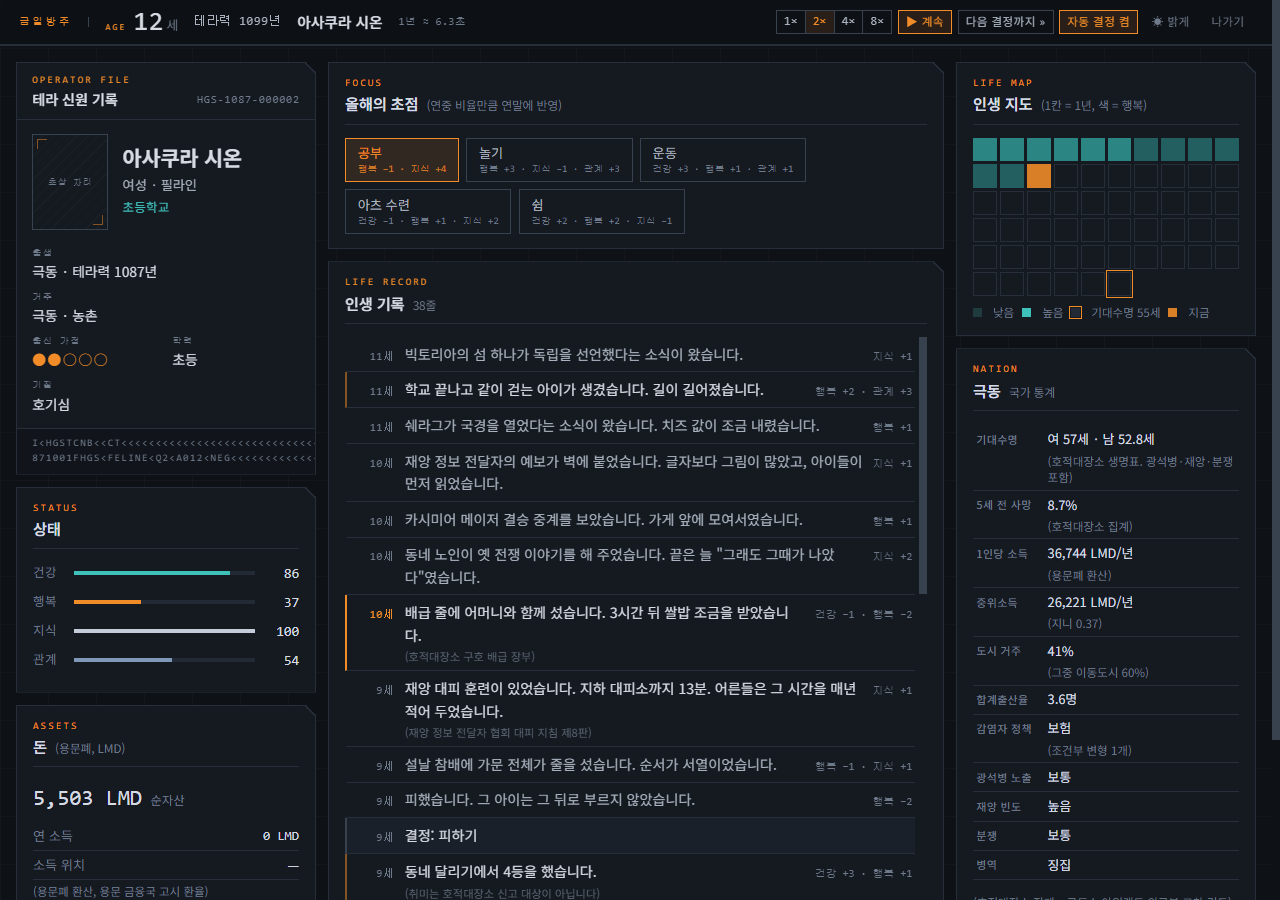
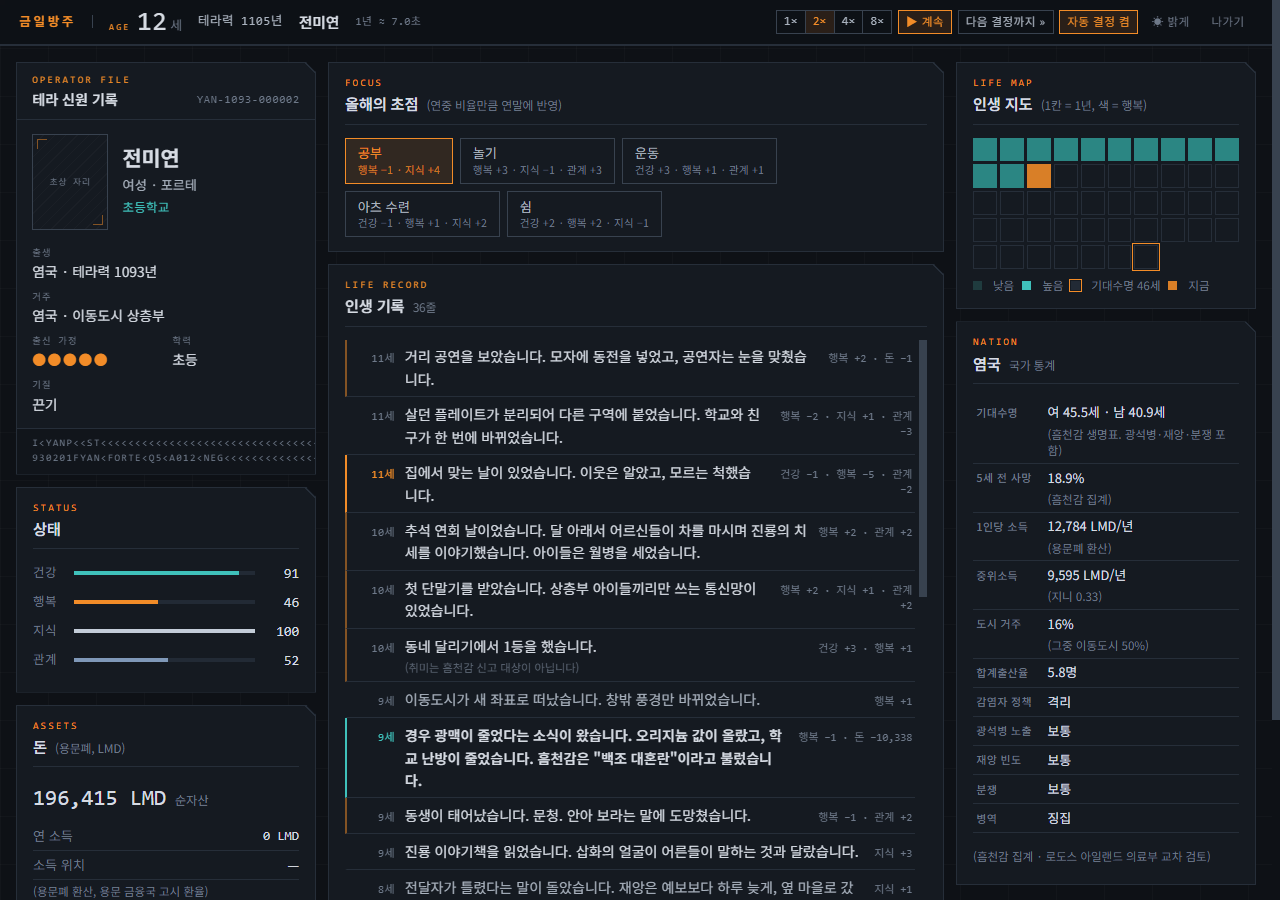
라이트 모드 상단 바 배색·한글 폰트 폴백 수정
- .life-bar 배경을 테마 변수(--bar-bg)로: 라이트에서 어두운 바가 남던 문제
- 모노 폰트 스택 뒤에 한글 산세리프 추가(굴림 폴백 방지)
- 상단 제목·선택지 설명·초점 칩 힌트는 산세리프로

diff --git a/src/ui/style.css b/src/ui/style.css
@@ -21,11 +21,13 @@
   --bad: #e2695d;
   --bad-soft: rgba(226, 105, 93, 0.1);
   --sans: "Pretendard", "Noto Sans KR", "Malgun Gothic", "맑은 고딕", "Apple SD Gothic Neo", sans-serif;
-  --mono: "Cascadia Mono", "JetBrains Mono", Consolas, "SF Mono", Menlo, "Roboto Mono", monospace;
+  /* 모노 스택 뒤에 한글 산세리프를 둔다: 한글 글리프가 굴림으로 떨어지는 것을 막는다 */
+  --mono: "Cascadia Mono", "JetBrains Mono", Consolas, "SF Mono", Menlo, "Roboto Mono", "Pretendard", "Noto Sans KR", "Malgun Gothic", "맑은 고딕", "Apple SD Gothic Neo", monospace;
   --cut: 10px;
   --fc: var(--line);
   --grid: rgba(255, 255, 255, 0.022);
   --hatch: rgba(255, 255, 255, 0.025);
+  --bar-bg: rgba(14, 17, 22, 0.94);
   color-scheme: dark;
 }
 /* 라이트 팔레트: 종이 느낌의 따뜻한 회백색. 강조색은 밝은 바탕에서 대비가 나오게 한 단계 어둡게. */
@@ -50,6 +52,7 @@
   --bad-soft: rgba(194, 70, 59, 0.1);
   --grid: rgba(0, 0, 0, 0.035);
   --hatch: rgba(0, 0, 0, 0.045);
+  --bar-bg: rgba(241, 239, 233, 0.94);
   color-scheme: light;
 }
 
@@ -209,11 +212,11 @@ code { font-family: var(--mono); font-size: 0.9em; background: var(--panel-3); p
 
 /* ── 인생 화면: 상단 상태 표시줄 ─────────────────────── */
 .life-bar {
-  position: sticky; top: 0; z-index: 20; background: rgba(14, 17, 22, 0.94); backdrop-filter: blur(6px); border-bottom: 1px solid var(--line);
+  position: sticky; top: 0; z-index: 20; background: var(--bar-bg); backdrop-filter: blur(6px); border-bottom: 1px solid var(--line);
   display: flex; flex-wrap: wrap; align-items: center; justify-content: space-between; gap: 0.4rem 1rem; padding: 0.5rem 1.2rem 0.6rem;
 }
 .bar-left { display: flex; align-items: center; gap: 1rem; flex-wrap: wrap; }
-.bar-title { font-family: var(--mono); font-weight: 500; font-size: 0.64rem; letter-spacing: 0.3em; color: var(--accent); text-transform: uppercase; padding-right: 1rem; border-right: 1px solid var(--line-2); line-height: 1; }
+.bar-title { font-family: var(--sans); font-weight: 700; font-size: 0.78rem; letter-spacing: 0.22em; color: var(--accent); padding-right: 1rem; border-right: 1px solid var(--line-2); line-height: 1; }
 .bar-age { display: inline-flex; align-items: baseline; gap: 0.25em; font-size: 0.8rem; color: var(--muted); }
 .bar-age .en { display: inline; margin-right: 0.4em; font-size: 0.56rem; }
 .bar-age b { font-family: var(--mono); font-weight: 500; font-size: 1.7rem; line-height: 1; color: var(--text); }
@@ -273,7 +276,7 @@ code { font-family: var(--mono); font-size: 0.9em; background: var(--panel-3); p
 .chips { display: flex; flex-wrap: wrap; gap: 0.45rem; }
 .chip { font: inherit; font-size: 0.82rem; cursor: pointer; border: 1px solid var(--line-2); background: transparent; color: var(--text-2); border-radius: 0; padding: 0.45em 0.9em; display: inline-flex; flex-direction: column; align-items: flex-start; line-height: 1.3; min-width: 6.2em; transition: border-color 120ms, color 120ms, background-color 120ms; }
 .chip:hover { border-color: var(--text-2); color: var(--text); }
-.chip .chip-hint { font-family: var(--mono); font-size: 0.6rem; color: var(--muted); letter-spacing: 0.02em; margin-top: 0.15em; }
+.chip .chip-hint { font-family: var(--sans); font-size: 0.66rem; color: var(--muted); letter-spacing: 0.02em; margin-top: 0.15em; }
 .chip.on { border-color: var(--accent); background: var(--accent-soft); color: var(--accent); }
 .chip.on .chip-hint { color: var(--accent); opacity: 0.8; }
 
@@ -333,7 +336,7 @@ input:focus-visible, textarea:focus-visible, select:focus-visible { outline: 1px
 .choice:active { background: var(--accent-dim); }
 .choice-n { grid-row: 1 / span 2; color: var(--muted); font-size: 0.78rem; text-align: center; border: 1px solid var(--line-2); padding: 0.1em 0; line-height: 1.3; transition: color 120ms; }
 .choice-label { font-weight: 600; }
-.choice-sub { grid-column: 2; font-family: var(--mono); font-size: 0.68rem; color: var(--muted); letter-spacing: 0.02em; margin-top: 0.15em; }
+.choice-sub { grid-column: 2; font-family: var(--sans); font-size: 0.74rem; color: var(--muted); letter-spacing: 0.02em; margin-top: 0.15em; }
 .countdown { margin: 0.6rem 0 0.2rem; }
 .countdown-track { height: 2px; background: var(--line); }
 .countdown-bar { height: 100%; background: var(--accent2); width: 100%; transition: width 100ms linear; }

diff --git a/dist/index.html b/dist/index.html
@@ -26,11 +26,13 @@
   --bad: #e2695d;
   --bad-soft: rgba(226, 105, 93, 0.1);
   --sans: "Pretendard", "Noto Sans KR", "Malgun Gothic", "맑은 고딕", "Apple SD Gothic Neo", sans-serif;
-  --mono: "Cascadia Mono", "JetBrains Mono", Consolas, "SF Mono", Menlo, "Roboto Mono", monospace;
+  
+  --mono: "Cascadia Mono", "JetBrains Mono", Consolas, "SF Mono", Menlo, "Roboto Mono", "Pretendard", "Noto Sans KR", "Malgun Gothic", "맑은 고딕", "Apple SD Gothic Neo", monospace;
   --cut: 10px;
   --fc: var(--line);
   --grid: rgba(255, 255, 255, 0.022);
   --hatch: rgba(255, 255, 255, 0.025);
+  --bar-bg: rgba(14, 17, 22, 0.94);
   color-scheme: dark;
 }
 
@@ -55,6 +57,7 @@
   --bad-soft: rgba(194, 70, 59, 0.1);
   --grid: rgba(0, 0, 0, 0.035);
   --hatch: rgba(0, 0, 0, 0.045);
+  --bar-bg: rgba(241, 239, 233, 0.94);
   color-scheme: light;
 }
 
@@ -207,11 +210,11 @@ code { font-family: var(--mono); font-size: 0.9em; background: var(--panel-3); p
 .noscript { max-width: 640px; margin: 48px auto; padding: 24px; }
 
 .life-bar {
-  position: sticky; top: 0; z-index: 20; background: rgba(14, 17, 22, 0.94); backdrop-filter: blur(6px); border-bottom: 1px solid var(--line);
+  position: sticky; top: 0; z-index: 20; background: var(--bar-bg); backdrop-filter: blur(6px); border-bottom: 1px solid var(--line);
   display: flex; flex-wrap: wrap; align-items: center; justify-content: space-between; gap: 0.4rem 1rem; padding: 0.5rem 1.2rem 0.6rem;
 }
 .bar-left { display: flex; align-items: center; gap: 1rem; flex-wrap: wrap; }
-.bar-title { font-family: var(--mono); font-weight: 500; font-size: 0.64rem; letter-spacing: 0.3em; color: var(--accent); text-transform: uppercase; padding-right: 1rem; border-right: 1px solid var(--line-2); line-height: 1; }
+.bar-title { font-family: var(--sans); font-weight: 700; font-size: 0.78rem; letter-spacing: 0.22em; color: var(--accent); padding-right: 1rem; border-right: 1px solid var(--line-2); line-height: 1; }
 .bar-age { display: inline-flex; align-items: baseline; gap: 0.25em; font-size: 0.8rem; color: var(--muted); }
 .bar-age .en { display: inline; margin-right: 0.4em; font-size: 0.56rem; }
 .bar-age b { font-family: var(--mono); font-weight: 500; font-size: 1.7rem; line-height: 1; color: var(--text); }
@@ -266,7 +269,7 @@ code { font-family: var(--mono); font-size: 0.9em; background: var(--panel-3); p
 .chips { display: flex; flex-wrap: wrap; gap: 0.45rem; }
 .chip { font: inherit; font-size: 0.82rem; cursor: pointer; border: 1px solid var(--line-2); background: transparent; color: var(--text-2); border-radius: 0; padding: 0.45em 0.9em; display: inline-flex; flex-direction: column; align-items: flex-start; line-height: 1.3; min-width: 6.2em; transition: border-color 120ms, color 120ms, background-color 120ms; }
 .chip:hover { border-color: var(--text-2); color: var(--text); }
-.chip .chip-hint { font-family: var(--mono); font-size: 0.6rem; color: var(--muted); letter-spacing: 0.02em; margin-top: 0.15em; }
+.chip .chip-hint { font-family: var(--sans); font-size: 0.66rem; color: var(--muted); letter-spacing: 0.02em; margin-top: 0.15em; }
 .chip.on { border-color: var(--accent); background: var(--accent-soft); color: var(--accent); }
 .chip.on .chip-hint { color: var(--accent); opacity: 0.8; }
 
@@ -322,7 +325,7 @@ input:focus-visible, textarea:focus-visible, select:focus-visible { outline: 1px
 .choice:active { background: var(--accent-dim); }
 .choice-n { grid-row: 1 / span 2; color: var(--muted); font-size: 0.78rem; text-align: center; border: 1px solid var(--line-2); padding: 0.1em 0; line-height: 1.3; transition: color 120ms; }
 .choice-label { font-weight: 600; }
-.choice-sub { grid-column: 2; font-family: var(--mono); font-size: 0.68rem; color: var(--muted); letter-spacing: 0.02em; margin-top: 0.15em; }
+.choice-sub { grid-column: 2; font-family: var(--sans); font-size: 0.74rem; color: var(--muted); letter-spacing: 0.02em; margin-top: 0.15em; }
 .countdown { margin: 0.6rem 0 0.2rem; }
 .countdown-track { height: 2px; background: var(--line); }
 .countdown-bar { height: 100%; background: var(--accent2); width: 100%; transition: width 100ms linear; }

diff --git a/index.html b/index.html
@@ -26,11 +26,13 @@
   --bad: #e2695d;
   --bad-soft: rgba(226, 105, 93, 0.1);
   --sans: "Pretendard", "Noto Sans KR", "Malgun Gothic", "맑은 고딕", "Apple SD Gothic Neo", sans-serif;
-  --mono: "Cascadia Mono", "JetBrains Mono", Consolas, "SF Mono", Menlo, "Roboto Mono", monospace;
+  
+  --mono: "Cascadia Mono", "JetBrains Mono", Consolas, "SF Mono", Menlo, "Roboto Mono", "Pretendard", "Noto Sans KR", "Malgun Gothic", "맑은 고딕", "Apple SD Gothic Neo", monospace;
   --cut: 10px;
   --fc: var(--line);
   --grid: rgba(255, 255, 255, 0.022);
   --hatch: rgba(255, 255, 255, 0.025);
+  --bar-bg: rgba(14, 17, 22, 0.94);
   color-scheme: dark;
 }
 
@@ -55,6 +57,7 @@
   --bad-soft: rgba(194, 70, 59, 0.1);
   --grid: rgba(0, 0, 0, 0.035);
   --hatch: rgba(0, 0, 0, 0.045);
+  --bar-bg: rgba(241, 239, 233, 0.94);
   color-scheme: light;
 }
 
@@ -207,11 +210,11 @@ code { font-family: var(--mono); font-size: 0.9em; background: var(--panel-3); p
 .noscript { max-width: 640px; margin: 48px auto; padding: 24px; }
 
 .life-bar {
-  position: sticky; top: 0; z-index: 20; background: rgba(14, 17, 22, 0.94); backdrop-filter: blur(6px); border-bottom: 1px solid var(--line);
+  position: sticky; top: 0; z-index: 20; background: var(--bar-bg); backdrop-filter: blur(6px); border-bottom: 1px solid var(--line);
   display: flex; flex-wrap: wrap; align-items: center; justify-content: space-between; gap: 0.4rem 1rem; padding: 0.5rem 1.2rem 0.6rem;
 }
 .bar-left { display: flex; align-items: center; gap: 1rem; flex-wrap: wrap; }
-.bar-title { font-family: var(--mono); font-weight: 500; font-size: 0.64rem; letter-spacing: 0.3em; color: var(--accent); text-transform: uppercase; padding-right: 1rem; border-right: 1px solid var(--line-2); line-height: 1; }
+.bar-title { font-family: var(--sans); font-weight: 700; font-size: 0.78rem; letter-spacing: 0.22em; color: var(--accent); padding-right: 1rem; border-right: 1px solid var(--line-2); line-height: 1; }
 .bar-age { display: inline-flex; align-items: baseline; gap: 0.25em; font-size: 0.8rem; color: var(--muted); }
 .bar-age .en { display: inline; margin-right: 0.4em; font-size: 0.56rem; }
 .bar-age b { font-family: var(--mono); font-weight: 500; font-size: 1.7rem; line-height: 1; color: var(--text); }
@@ -266,7 +269,7 @@ code { font-family: var(--mono); font-size: 0.9em; background: var(--panel-3); p
 .chips { display: flex; flex-wrap: wrap; gap: 0.45rem; }
 .chip { font: inherit; font-size: 0.82rem; cursor: pointer; border: 1px solid var(--line-2); background: transparent; color: var(--text-2); border-radius: 0; padding: 0.45em 0.9em; display: inline-flex; flex-direction: column; align-items: flex-start; line-height: 1.3; min-width: 6.2em; transition: border-color 120ms, color 120ms, background-color 120ms; }
 .chip:hover { border-color: var(--text-2); color: var(--text); }
-.chip .chip-hint { font-family: var(--mono); font-size: 0.6rem; color: var(--muted); letter-spacing: 0.02em; margin-top: 0.15em; }
+.chip .chip-hint { font-family: var(--sans); font-size: 0.66rem; color: var(--muted); letter-spacing: 0.02em; margin-top: 0.15em; }
 .chip.on { border-color: var(--accent); background: var(--accent-soft); color: var(--accent); }
 .chip.on .chip-hint { color: var(--accent); opacity: 0.8; }
 
@@ -322,7 +325,7 @@ input:focus-visible, textarea:focus-visible, select:focus-visible { outline: 1px
 .choice:active { background: var(--accent-dim); }
 .choice-n { grid-row: 1 / span 2; color: var(--muted); font-size: 0.78rem; text-align: center; border: 1px solid var(--line-2); padding: 0.1em 0; line-height: 1.3; transition: color 120ms; }
 .choice-label { font-weight: 600; }
-.choice-sub { grid-column: 2; font-family: var(--mono); font-size: 0.68rem; color: var(--muted); letter-spacing: 0.02em; margin-top: 0.15em; }
+.choice-sub { grid-column: 2; font-family: var(--sans); font-size: 0.74rem; color: var(--muted); letter-spacing: 0.02em; margin-top: 0.15em; }
 .countdown { margin: 0.6rem 0 0.2rem; }
 .countdown-track { height: 2px; background: var(--line); }
 .countdown-bar { height: 100%; background: var(--accent2); width: 100%; transition: width 100ms linear; }

diff --git a/release/arkdays-v0.2.1.html b/release/arkdays-v0.2.1.html
@@ -26,11 +26,13 @@
   --bad: #e2695d;
   --bad-soft: rgba(226, 105, 93, 0.1);
   --sans: "Pretendard", "Noto Sans KR", "Malgun Gothic", "맑은 고딕", "Apple SD Gothic Neo", sans-serif;
-  --mono: "Cascadia Mono", "JetBrains Mono", Consolas, "SF Mono", Menlo, "Roboto Mono", monospace;
+  
+  --mono: "Cascadia Mono", "JetBrains Mono", Consolas, "SF Mono", Menlo, "Roboto Mono", "Pretendard", "Noto Sans KR", "Malgun Gothic", "맑은 고딕", "Apple SD Gothic Neo", monospace;
   --cut: 10px;
   --fc: var(--line);
   --grid: rgba(255, 255, 255, 0.022);
   --hatch: rgba(255, 255, 255, 0.025);
+  --bar-bg: rgba(14, 17, 22, 0.94);
   color-scheme: dark;
 }
 
@@ -55,6 +57,7 @@
   --bad-soft: rgba(194, 70, 59, 0.1);
   --grid: rgba(0, 0, 0, 0.035);
   --hatch: rgba(0, 0, 0, 0.045);
+  --bar-bg: rgba(241, 239, 233, 0.94);
   color-scheme: light;
 }
 
@@ -207,11 +210,11 @@ code { font-family: var(--mono); font-size: 0.9em; background: var(--panel-3); p
 .noscript { max-width: 640px; margin: 48px auto; padding: 24px; }
 
 .life-bar {
-  position: sticky; top: 0; z-index: 20; background: rgba(14, 17, 22, 0.94); backdrop-filter: blur(6px); border-bottom: 1px solid var(--line);
+  position: sticky; top: 0; z-index: 20; background: var(--bar-bg); backdrop-filter: blur(6px); border-bottom: 1px solid var(--line);
   display: flex; flex-wrap: wrap; align-items: center; justify-content: space-between; gap: 0.4rem 1rem; padding: 0.5rem 1.2rem 0.6rem;
 }
 .bar-left { display: flex; align-items: center; gap: 1rem; flex-wrap: wrap; }
-.bar-title { font-family: var(--mono); font-weight: 500; font-size: 0.64rem; letter-spacing: 0.3em; color: var(--accent); text-transform: uppercase; padding-right: 1rem; border-right: 1px solid var(--line-2); line-height: 1; }
+.bar-title { font-family: var(--sans); font-weight: 700; font-size: 0.78rem; letter-spacing: 0.22em; color: var(--accent); padding-right: 1rem; border-right: 1px solid var(--line-2); line-height: 1; }
 .bar-age { display: inline-flex; align-items: baseline; gap: 0.25em; font-size: 0.8rem; color: var(--muted); }
 .bar-age .en { display: inline; margin-right: 0.4em; font-size: 0.56rem; }
 .bar-age b { font-family: var(--mono); font-weight: 500; font-size: 1.7rem; line-height: 1; color: var(--text); }
@@ -266,7 +269,7 @@ code { font-family: var(--mono); font-size: 0.9em; background: var(--panel-3); p
 .chips { display: flex; flex-wrap: wrap; gap: 0.45rem; }
 .chip { font: inherit; font-size: 0.82rem; cursor: pointer; border: 1px solid var(--line-2); background: transparent; color: var(--text-2); border-radius: 0; padding: 0.45em 0.9em; display: inline-flex; flex-direction: column; align-items: flex-start; line-height: 1.3; min-width: 6.2em; transition: border-color 120ms, color 120ms, background-color 120ms; }
 .chip:hover { border-color: var(--text-2); color: var(--text); }
-.chip .chip-hint { font-family: var(--mono); font-size: 0.6rem; color: var(--muted); letter-spacing: 0.02em; margin-top: 0.15em; }
+.chip .chip-hint { font-family: var(--sans); font-size: 0.66rem; color: var(--muted); letter-spacing: 0.02em; margin-top: 0.15em; }
 .chip.on { border-color: var(--accent); background: var(--accent-soft); color: var(--accent); }
 .chip.on .chip-hint { color: var(--accent); opacity: 0.8; }
 
@@ -322,7 +325,7 @@ input:focus-visible, textarea:focus-visible, select:focus-visible { outline: 1px
 .choice:active { background: var(--accent-dim); }
 .choice-n { grid-row: 1 / span 2; color: var(--muted); font-size: 0.78rem; text-align: center; border: 1px solid var(--line-2); padding: 0.1em 0; line-height: 1.3; transition: color 120ms; }
 .choice-label { font-weight: 600; }
-.choice-sub { grid-column: 2; font-family: var(--mono); font-size: 0.68rem; color: var(--muted); letter-spacing: 0.02em; margin-top: 0.15em; }
+.choice-sub { grid-column: 2; font-family: var(--sans); font-size: 0.74rem; color: var(--muted); letter-spacing: 0.02em; margin-top: 0.15em; }
 .countdown { margin: 0.6rem 0 0.2rem; }
 .countdown-track { height: 2px; background: var(--line); }
 .countdown-bar { height: 100%; background: var(--accent2); width: 100%; transition: width 100ms linear; }
